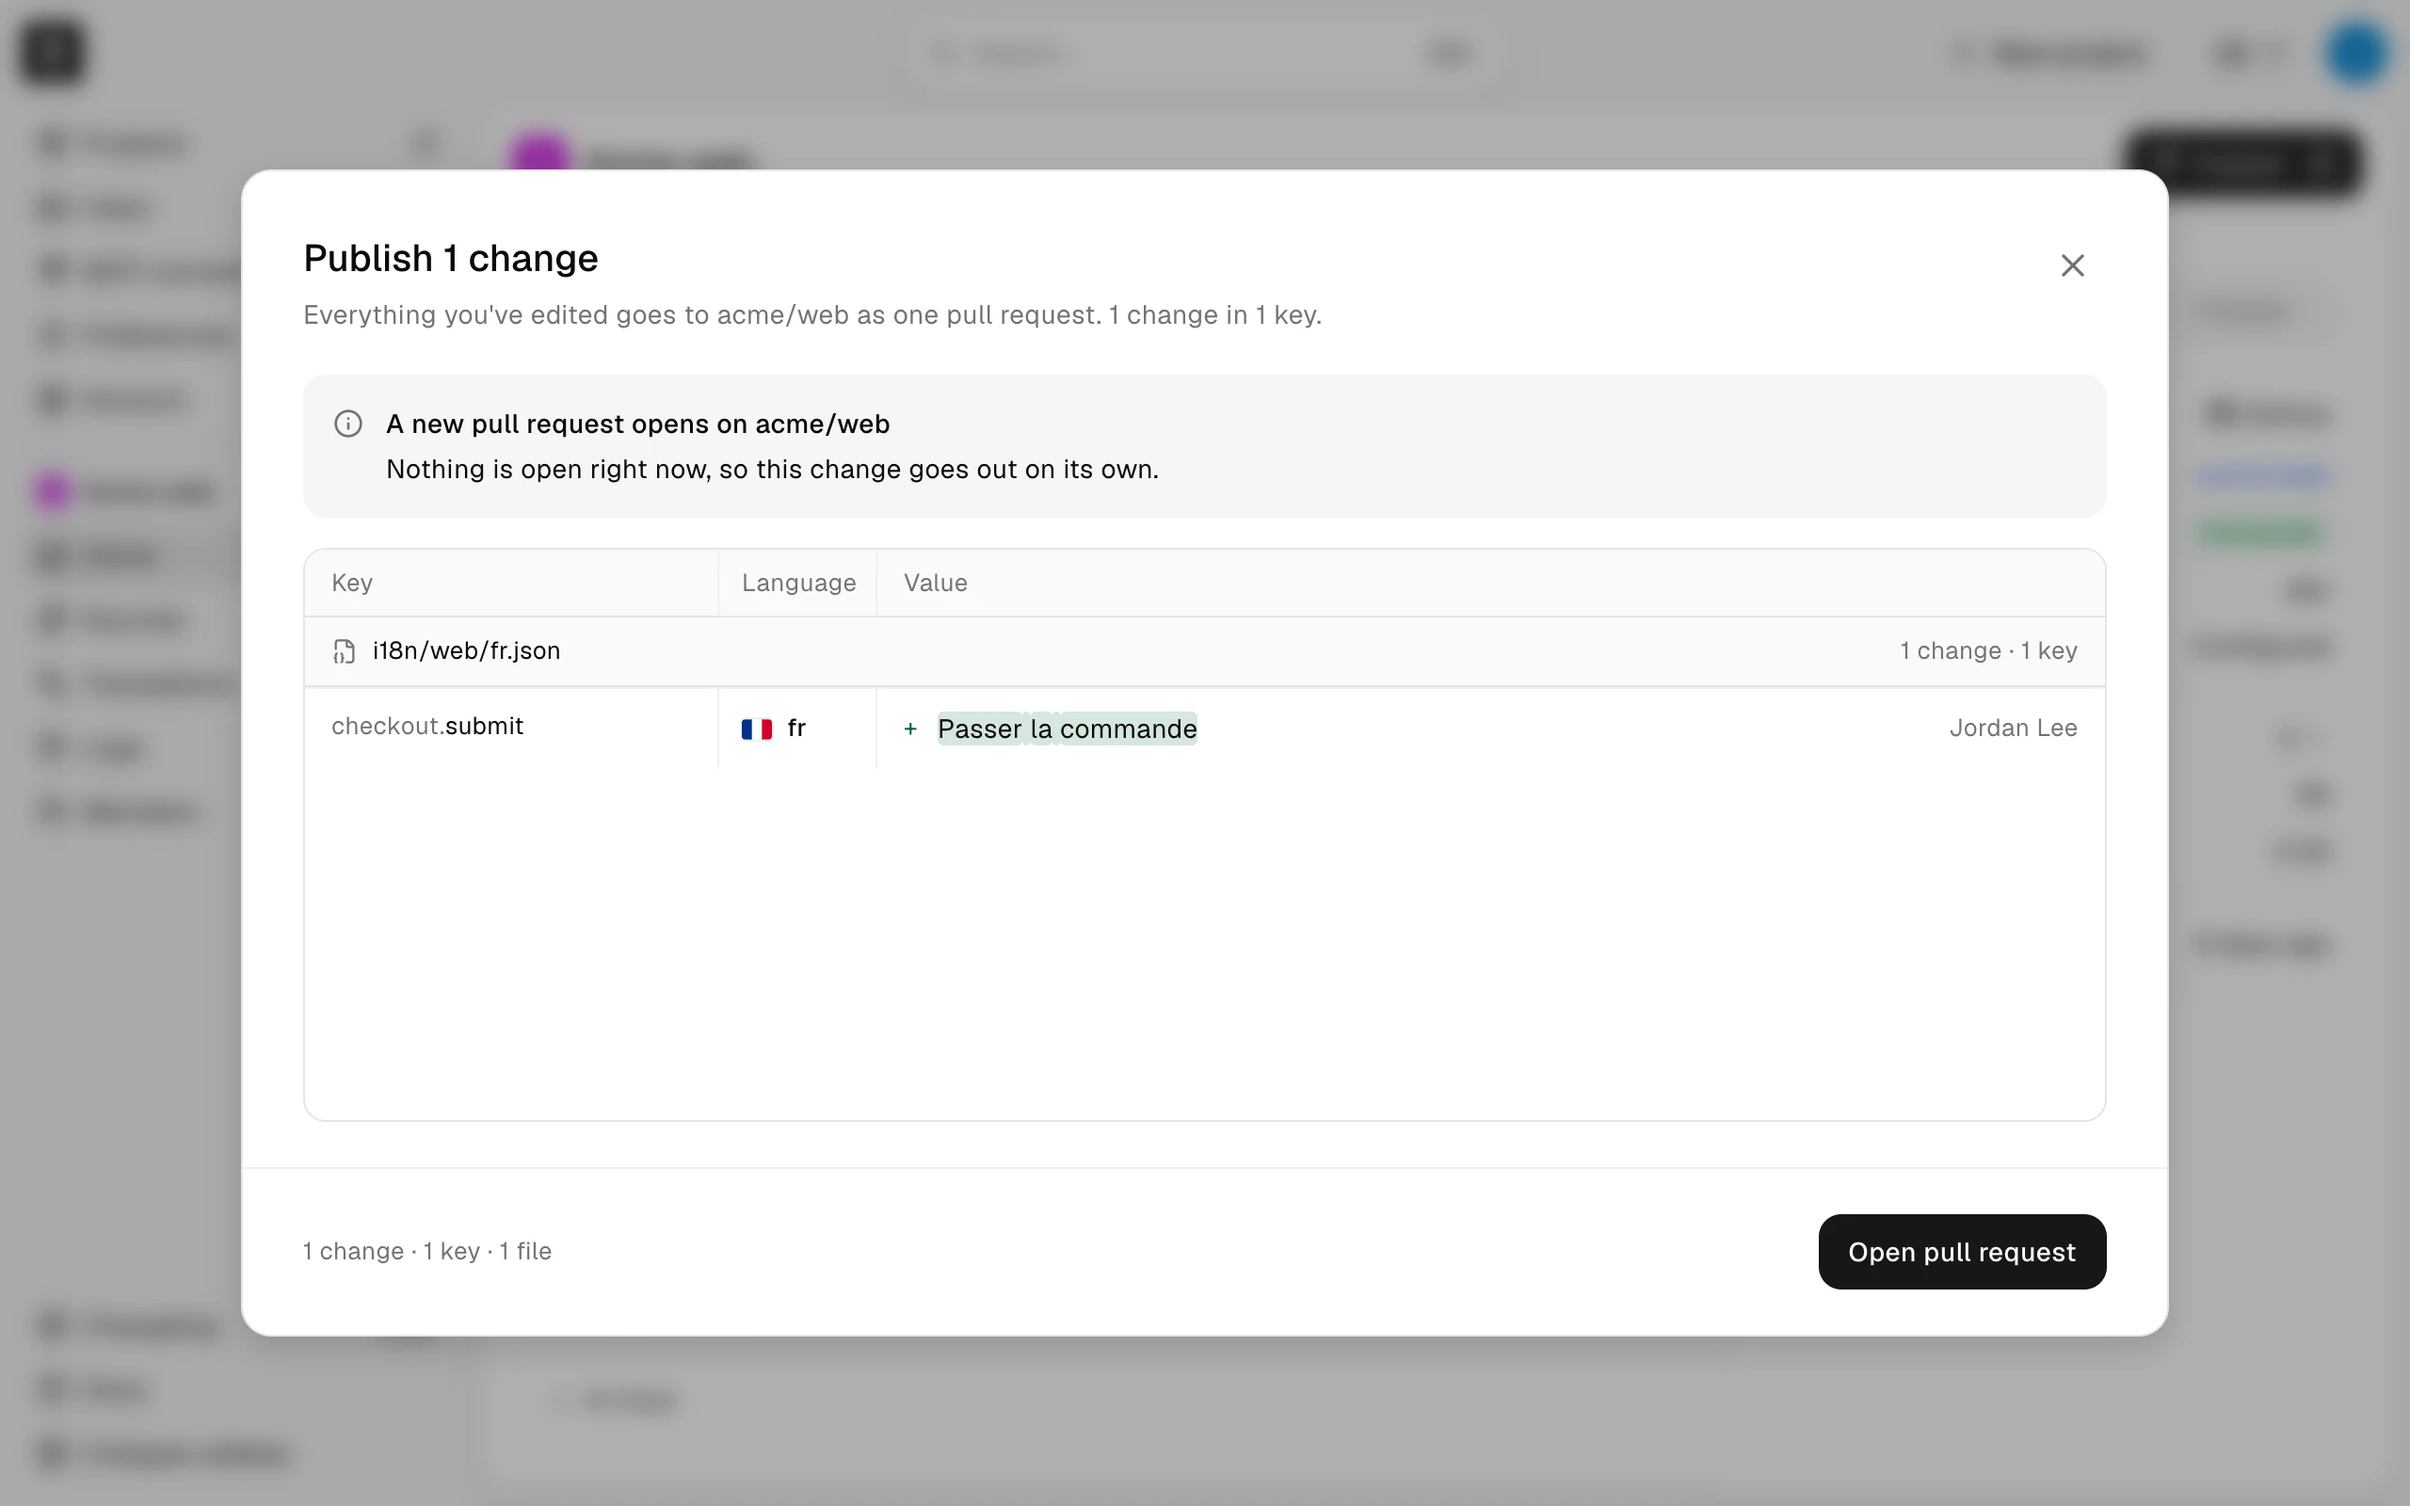
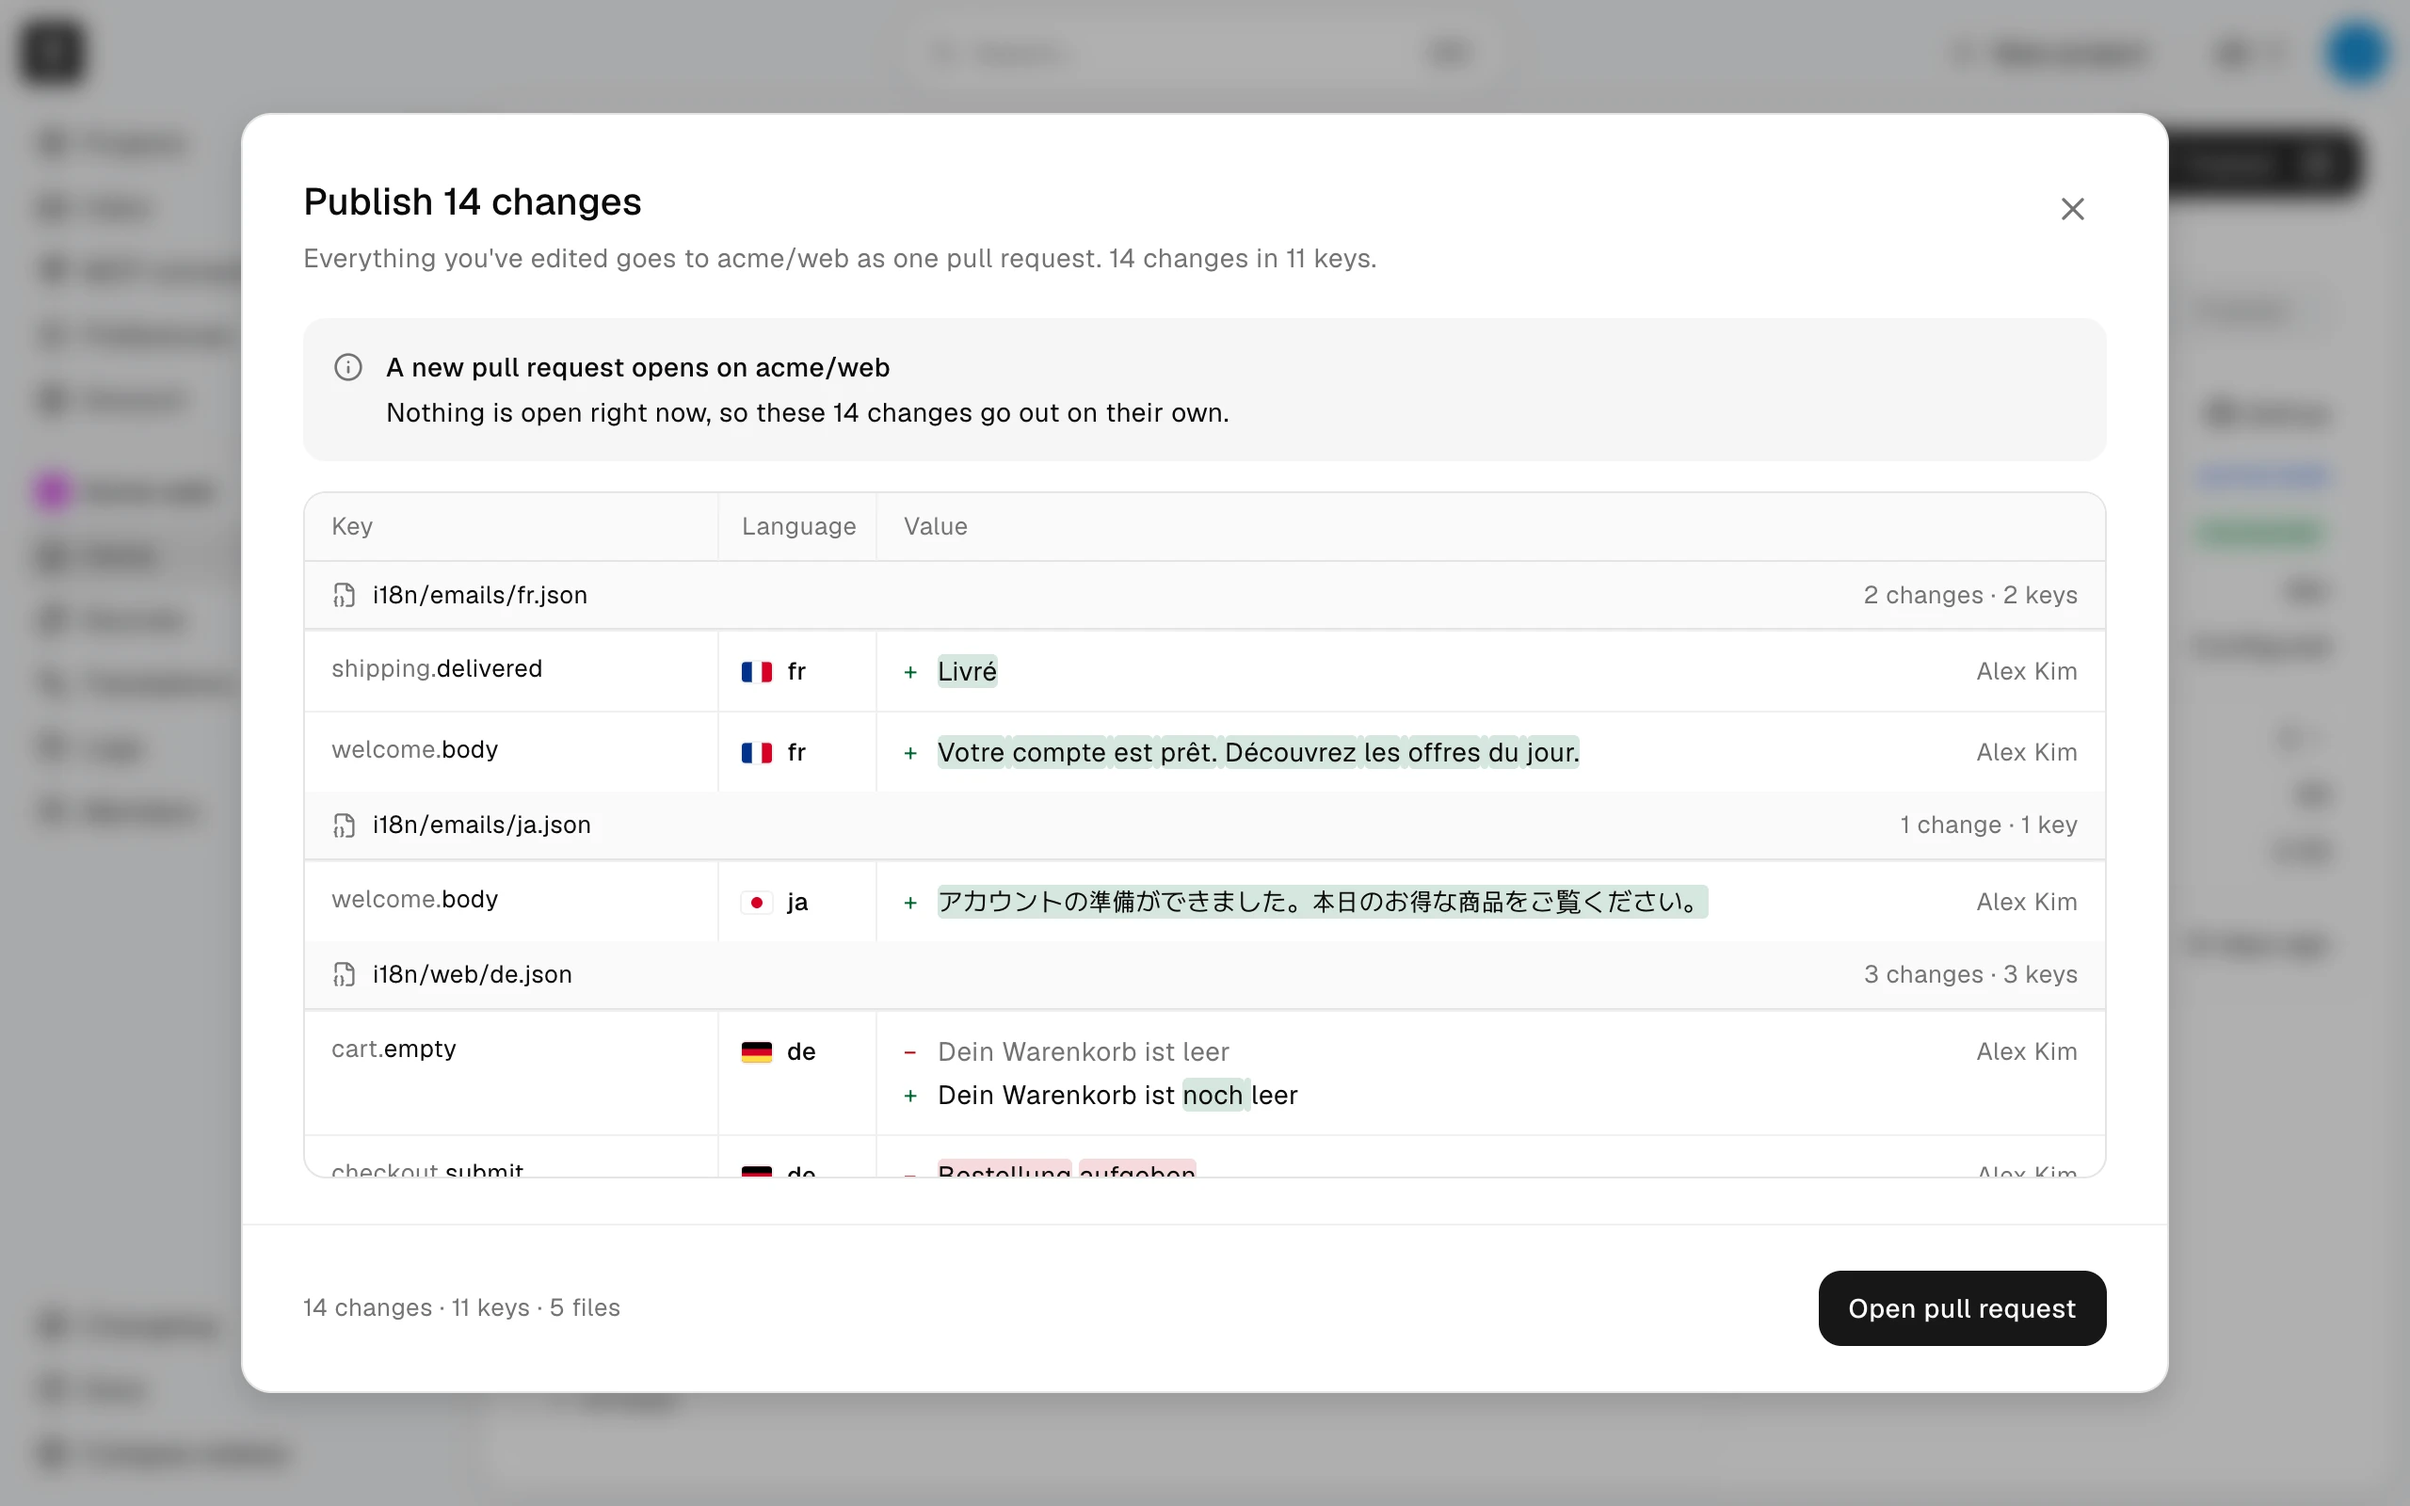
docs(guide): reshoot publish preview with a stack of pending edits

diff --git a/guide/SHOOTING.md b/guide/SHOOTING.md
@@ -90,7 +90,7 @@
 | `/guide/workflow-file.webp` | `github/workflow.md#workflow` | OWNER | 프로젝트 Settings → CI integration → Workflow file 모달 |
 | `/guide/actions-policy.webp` | `github/allowed-actions.md#allowed-actions` | OWNER(GitHub) | 리포 Settings → Actions → General의 Actions permissions, 넷 패턴 입력 |
 | `/guide/translation-editor.webp` | `translate/edit.md#find-key` | EDITOR | Translations — Keys 목록 + 선택한 키의 언어별 칸 |
-| `/guide/publish-preview.webp` | `translate/publish.md#preview` | EDITOR | Publish 미리보기(저장한 편집 1건, 새 PR) |
+| `/guide/publish-preview.webp` | `translate/publish.md#preview` | EDITOR | Publish 미리보기(쌓인 편집 14건 · 5파일 · 작성자 둘, 새 PR) |
 | `/guide/create-repository.webp` | `github/create.md#select-repository` | OWNER | ①단계 — `i18n`으로 거른 저장소 목록, 선택 + Branch |
 | `/guide/create-files.webp` | `github/create.md#choose-files` · `gitlab/create.md#choose-files` | OWNER | ②단계 — 감지된 세트 둘 선택 + 미리보기 |
 | `/guide/create-name.webp` | `github/create.md#confirm-project` · `gitlab/create.md#confirm-project` | OWNER | ③단계 — Name·Address + Base language(Create project 누르지 않음) |
@@ -158,7 +158,7 @@
 | /guide/workflow-file.webp | components/settings/ci-card.tsx, components/onboarding/workflow-block.tsx, lib/onboarding/workflow.ts | fac88a0789fb7a98772a4a91085c4fbaa86099c9, e0ac1f57f9f9030693e91490d78a1e8fb03714ec, de45de3dad10e1231c932e05ddc616b5397b29d1 | 2560x1600 |
 | /guide/actions-policy.webp | lib/onboarding/workflow.ts, .github/actions/malmoi-i18n-push/action.yml | de45de3dad10e1231c932e05ddc616b5397b29d1, 559ddc28bcd1c0fa8f4a1946dd15f7e8fcd0f03d | 2560x1600 |
 | /guide/translation-editor.webp | components/translations/workspace/key-list.tsx, components/translations/workspace/locale-panel.tsx, components/translations/workspace/workspace.tsx, components/translations/workspace/tree-panel.tsx | 2c42ea96c69fe2f89dd975ed4d0435bab8f2df2b, 16a52148f9dd92485ab8e8c1df19e4045de91a50, c1c8ccf51ce92d39c56260381fe756aefc9ca6bb, 1e93cf6e783081414d514b315d21dd4578602550 | 2560x1600 |
-| /guide/publish-preview.webp | components/publish-button.tsx, lib/publish/preview.ts | 83a7db1261a14aae68ca91b0ec231cb7ec4d5343, aab60c85f05f99f32e26d6a47b3a6e6721313f37 | 2560x1600 |
+| /guide/publish-preview.webp | components/publish-button.tsx, lib/publish/preview.ts | 335447ac13306e08e07a9b07381c4e94d702d9f3, 5d12a5086370870768a5c9f503c4af7c3b733ac6 | 2560x1600 |
 | /guide/project-home.webp | app/(edit)/projects/[slug]/(home)/page.tsx, components/home/count-cards.tsx, components/home/meta-column.tsx, components/home/meta-tabs.tsx, dict:projects.summary.newFromGithub, dict:home.meta.platform | e1da6ab9dc0773da5c543619d85b06efba41cbb2, 6fb483d9bcbce96a3390bed0bb6d9a9c200ed852, 0e67fc7c827d5c28da3bf0c9f7ea71a127c27c6f, 326a71e9fadefec3992bad2e9acf0192fa107a35, d446176b65708906041b4a7df027fa8e2155349d, 3960ec4ca5fb5e5d8cdb2cc1c5121c003e426517 | 2560x1600 |
 | /guide/invite-members.webp | components/members/invite-modal.tsx | eb7d59815ce95f005cb00d3a9825c6180c0e1b5d | 2560x1600 |
 | /guide/members.webp | components/members/member-list.tsx, components/members/member-row.tsx, components/members/pending-invitations.tsx | 6c11618f5cf3a604dbc8245f1beb026e98a25cc3, c22d96684a0ffbfbe2fdda0b36db5ca310a200e9, bb3be5dd03f9eded04f737c4a007e01e44435210 | 2560x1600 |
@@ -282,3 +282,4 @@
 - 2026-10-13 GitLab 감사 리팩터 QA — `guide:check` stale 17컷(19건) 전부 **재촬영 없이 SHA만 갱신**. 바뀐 소스 여섯의 diff가 화면을 바꾸지 않는다: `gitlab-section.tsx`·`steps/repo.tsx`·`repository-card.tsx`는 만료일 생산자 `formatDay`→`formatDateOnly`(결정 R1 — en·UTC에서 둘 다 `Nov 11, 2026`·`Oct 23, 2026`을 낸다고 실측했고, 촬영 계정 시간대는 UTC다) · `token-form.tsx`는 거부 매핑 함수 교체(`gitlabTokenErrorMessage` — GitLab 거부는 같은 `gitlabConnectErrorMessage` 문장으로 떨어진다. 같은 날 `/account` 폼에서 가짜 토큰 거부 문장 `GitLab didn't accept this token…`을 실측했다) · `ci-card.tsx`는 GitLab 힌트 링크의 href(`create/gitlab-ci` → `gitlab/ci`)와 주석 · `sync-result.tsx`는 실행권 전 거부 집합에 `gitlab-project-disconnected` 하나(컷은 성공 결과다). 대조 캡처 둘(`account-connections` · `gitlab-repository-card`, OWNER, 1280×800 · DPR 2)을 기존 파일과 픽셀 대조했다 — 차이는 목록 구역 썸네일 치환 타일 색·아바타 글자(촬영 치환물)와 스크롤 0.3px 반올림뿐이었다(반영하지 않았다). DB·계정 쓰기 없음(같은 세션의 런타임 QA가 GitLab 연결 해제·재연결로 `GitLabConnection` id를 바꿨지만 만료일·사용자명은 같다 — `Connected` 화면 그대로).
 - 2026-10-13 gitlab-oauth GS — `guide:check` stale 12컷(17건) 정리. **재촬영 7**(1280×800 · DPR 2, WebP quality 90, OWNER): `account`(Sign-in methods `3 of 3` — GitLab 행이 서고 GitLab 글리프가 3색 · GitHub 글리프가 잉크 — 그만큼 `GitLab PAT` 카드가 접힘 아래로 내려갔다) · `account-connections` · `sign-out-everywhere`(같은 3색·잉크 글리프. 확인창 문장은 OWNER 확인 상대가 GitHub라 그대로) · `github-repository-card`(Repository 카드 GitHub 글리프가 성공 톤 초록 → 잉크, `BrandGlyph`) · `gitlab-repository-card` · `gitlab-token-expiring`(3색 글리프 — 개발 DB `GitLabConnection.expiresAt`을 그 id로 좁혀 촬영 동안만 앞당기고 원래 값으로 되돌림) · `gitlab-ci-file`(`89b27c21`이 `GITLAB_CI_RELEASE.sha`를 채워 CI file 모달이 미릴리스 안내 → 실제 YAML. 지휘자 승인으로 세 언어 원고의 참조를 `gitlab/ci.md#ci-unavailable` → `#gitlab-ci`로 옮기고 alt·title을 고쳤다). **SHA만 갱신 5**: `accept-invitation` · `oauth-consent`(바뀐 것은 로그아웃 상태의 로그인 버튼(`ProviderIcon`·`m.signIn[provider]`)뿐이고 두 컷은 로그인한 수락·동의 화면이다) · `invite-unavailable`(재캡처 대조 — 눈으로 같은 화면, 버튼 없음) · `gitlab-ci-variable` · `gitlab-protected-branch`(gitlab.com 화면 — `gitlab-ci.ts`의 SHA 한 줄은 그 폼에 안 들어간다). `/signin` 컷은 만들지 않았다 — 로그인 수단 셋은 `account`의 Sign-in methods가 보이고 `/signin`은 버튼 셋뿐이라 그림이 독자에게 더할 것이 없다. 계정·DB 쓰기는 만료일 임시 변경 하나(원복 확인). ⚠ **새로 밟은 것**: ① `.scratch/gitlab-expiry.ts`의 `set`에 `…Z` ISO를 주면 `expiresAt`(timestamp without time zone)에 시간대가 떨어진 채 저장돼 9시간 어긋난다 — 원래 저장값 `2026-11-11 00:00:00`처럼 **`Z` 없는 로컬 리터럴**로 준다. ② 캡처 직전 `data-theme`을 dark → light로 바꾸면 전환 중간 프레임(검은 검색창·버튼)이 찍힌다 — 바꾼 뒤 2.5초 기다린다.
 - 2026-10-14 new-keys 라벨(`201f5b2a` — 키 상태 `New from GitHub`/`New from GitLab` → `New keys`, Home 메타 `Platform` → `Host`) — `guide:check` stale 4컷(5건) + Home이 보이는 둘. **재촬영 6**(1280×800 · DPR 2, WebP quality 90): `project-home` · `home-sync-tab` · `home-paused`(Sync 탭) · `sync-discard`(OWNER) · `state-filter` · `home-publish`(EDITOR). 바뀐 것은 카운트 카드 제목·필터 메뉴 항목·Project 탭 `Host` 행이다(`count-cards.tsx`의 diff는 주석뿐이었다 — 화면은 사전이 바꿨다). **매핑 소스 추가**: 이번처럼 `messages/en.tsx`만 바뀌면 Home 컷이 stale로 안 뜨므로 `dict:projects.summary.newFromGithub`를 Home 컷 다섯에, `dict:home.meta.platform`을 Project 탭이 보이는 셋(`project-home` · `home-publish` · `sync-discard`)에 올렸다. `publish-preview` · `publish-result`는 Dim 뒤 블러라 재캡처를 픽셀 대조만 했다(차이는 0.5px 밀림·블러 속 상대 시각) — 반영하지 않았다. 셋업: OWNER `checkout.submit` de `Jetzt bestellen` → `home-paused`·`sync-discard`(Cancel) → 실제 Revert · EDITOR는 정리된 상태에서 `state-filter`를 먼저 찍고 fr `Passer la commande` → `home-publish` → 빈 값 재저장 → Publish(`Nothing differs`) → OWNER로 재로그인. 테마는 계정 값을 바꾸지 않고 캡처 직전 `data-theme=light` + 2.5초. 전후 대조: 미전달 0→0(전 프로젝트), `acme-web` 사건 73→78, 전체 750→755, 계정 언어·테마·`attentionSeenAt`·OAuth·API 토큰·`GitLabConnection` 불변, GitHub 쓰기 없음. ⚠ **새로 밟은 것**: ① ego lite의 **창이 0개**면(앱은 떠 있다) `Page.captureScreenshot`이 매번 타임아웃이고 `innerWidth`가 호출마다 절반으로 줄었다(640→320→160) — `open -g -a "ego lite"`로 창을 하나 다시 열고 새 페이지(`task.newPage()`)에서 찍었다. ② Sync 확인창은 열린 직후 `Checking whether anything is still waiting in a pull request…` 줄이 섰다 사라진다 — 그 줄이 빠질 때까지 기다린 뒤 찍는다. ③ Home의 `Sync` 버튼은 메타 탭 `Sync`와 이름이 같다 — `not(@role='tab')`로 가른다.
+- 2026-10-15 `publish-preview` **재촬영**(사용자 — "diff가 많이 쌓인 상태로", 1280×800 · DPR 2, WebP quality 90). `Acme web`에 미전달 편집 14건(11키 · 5파일 — `i18n/emails/{fr,ja}.json` · `i18n/web/{de,fr,ja}.json`, 값 수정 4 · 빈 칸 채움 10)을 OWNER 6 · EDITOR 8로 UI에서 저장하고 EDITOR 세션의 Home에서 미리보기를 열어 찍었다(작성자 `Alex Kim`·`Jordan Lee`, 컷 안에는 앞 행들이라 `Alex Kim`만 보인다). 정리: EDITOR가 14칸을 원래 값으로 다시 저장(빈 칸은 비워 저장) → Publish `Nothing differs from dev` → `Nothing changed in the files` — 미전달 0, GitHub 쓰기 없음, Logs에 편집·Publish 사건이 남았다. ⚠ **`Page.captureScreenshot`이 ego 창이 화면 밖(가려진 Space)이면 멈춘다** — 사용자가 창을 앞으로 가져온 뒤 바로 됐다(PDF 우회는 Dim의 `backdrop-blur`가 빠져 쓰지 않았다). 원고 alt(`listing one changed value`)는 이제 화면과 어긋난다 — `/guide` 몫. 같은 `guide:check`의 다른 stale 9컷은 이번 범위 밖이다.
